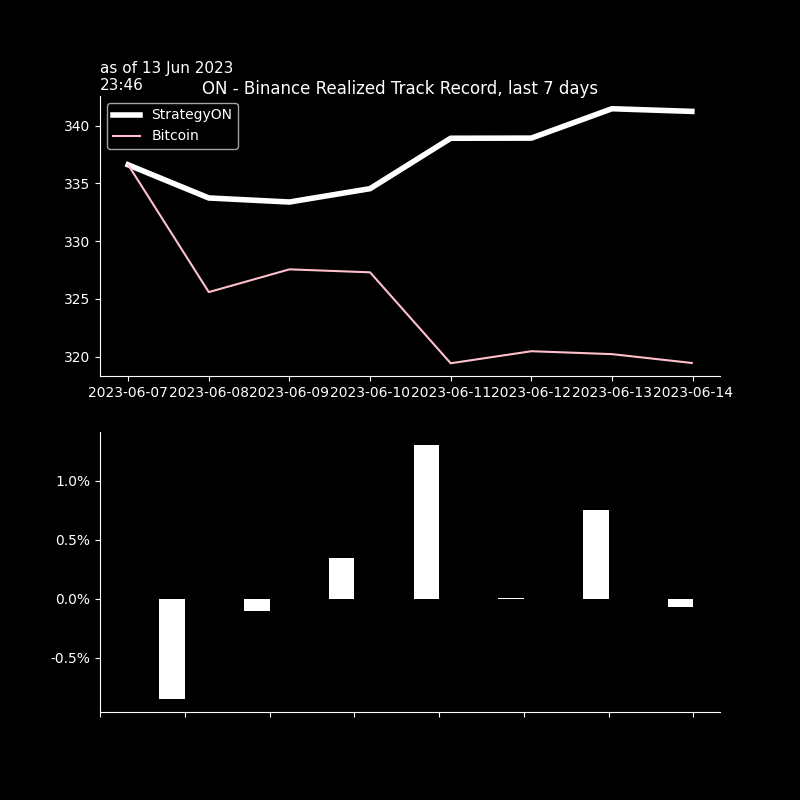
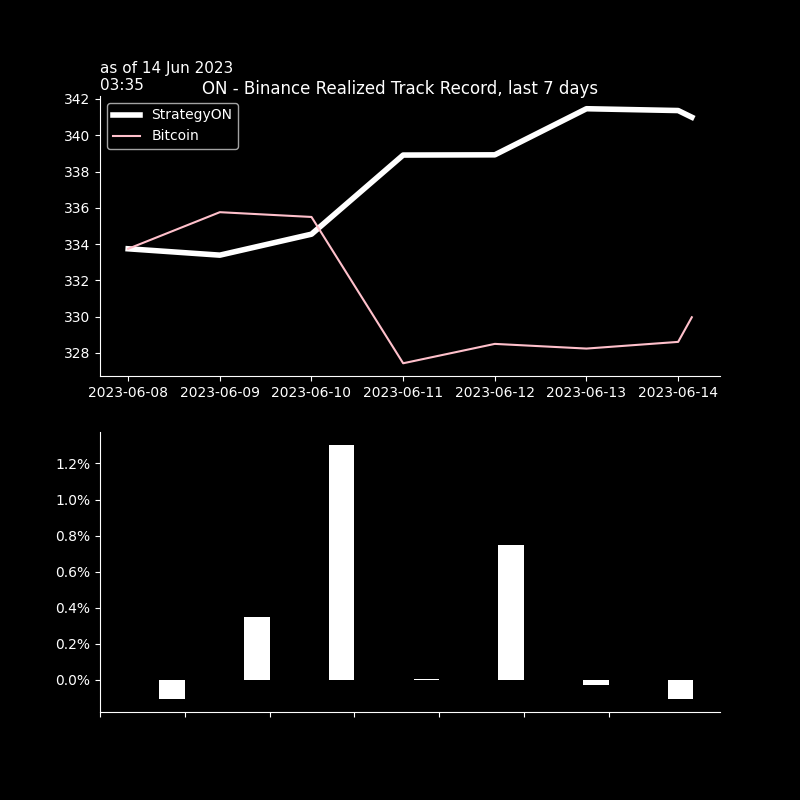
seb_commit

diff --git a/crypto/graphs/bt_trades_book.htmltrade_trades_book.html b/crypto/graphs/bt_trades_book.htmltrade_trades_book.html
@@ -37,53 +37,36 @@
   </thead>
   <tbody>
     <tr>
-      <th>BTCUSDT</th>
-      <td>25817.3000</td>
-      <td>2023-06-13 22:33:10</td>
-      <td>-0.009</td>
-      <td>$-232.4</td>
-      <td>$0.04</td>
-      <td>1.6</td>
-      <td>-0.5</td>
-      <td>25817.05000</td>
-      <td>2023-06-13 23:31</td>
-      <td>0.0</td>
-      <td>0.0</td>
-      <td>25820.</td>
+      <th>XRPUSDT</th>
+      <td>0.51655</td>
+      <td>2023-06-14 02:34:17.500</td>
+      <td>166.000</td>
+      <td>$85.7</td>
+      <td>$0.02</td>
+      <td>2.8</td>
+      <td>0.1</td>
+      <td>0.51585</td>
+      <td>2023-06-14 03:32</td>
+      <td>-0.1</td>
+      <td>-14.0</td>
+      <td>.5165</td>
       <td>-0.0</td>
       <td>-1.0</td>
     </tr>
     <tr>
-      <th>XRPUSDT</th>
-      <td>0.5177</td>
-      <td>2023-06-13 22:32:27</td>
-      <td>-414.800</td>
-      <td>$-214.7</td>
-      <td>$0.03</td>
+      <th>BTCUSDT</th>
+      <td>26030.50000</td>
+      <td>2023-06-14 02:34:44.000</td>
+      <td>0.004</td>
+      <td>$104.1</td>
+      <td>$0.02</td>
       <td>1.6</td>
-      <td>0.9</td>
-      <td>0.51745</td>
-      <td>2023-06-13 23:31</td>
-      <td>0.1</td>
-      <td>5.0</td>
-      <td>.518</td>
+      <td>-0.4</td>
+      <td>26013.15000</td>
+      <td>2023-06-14 03:32</td>
       <td>-0.1</td>
-      <td>-6.0</td>
-    </tr>
-    <tr>
-      <th>ETHUSDT</th>
-      <td>1734.1600</td>
-      <td>2023-06-13 22:33:10</td>
-      <td>-0.098</td>
-      <td>$-169.9</td>
-      <td>$0.03</td>
-      <td>1.6</td>
-      <td>-0.8</td>
-      <td>1734.16500</td>
-      <td>2023-06-13 23:31</td>
-      <td>-0.0</td>
-      <td>-0.0</td>
-      <td>1734.4</td>
+      <td>-7.0</td>
+      <td>26027.5</td>
       <td>-0.0</td>
       <td>-1.0</td>
     </tr>

diff --git a/crypto/graphs/bt_trades_recap.htmltrade_trades_recap.html b/crypto/graphs/bt_trades_recap.htmltrade_trades_recap.html
@@ -9,33 +9,33 @@
   <tbody>
     <tr>
       <th>as of</th>
-      <td>13Jun 22:32&gt;&gt;22:33</td>
-      <td>#trades: 3</td>
+      <td>14Jun 02:33&gt;&gt;02:35</td>
+      <td>#trades: 2</td>
     </tr>
     <tr>
       <th>trade net</th>
-      <td>-617.0</td>
-      <td>-180.7%</td>
+      <td>+190.0</td>
+      <td>+55.7%</td>
     </tr>
     <tr>
       <th>trade gross</th>
-      <td>+617.0</td>
-      <td>+180.7%</td>
+      <td>+190.0</td>
+      <td>+55.7%</td>
     </tr>
     <tr>
       <th>BUY</th>
+      <td>+190.0</td>
+      <td>+55.7%</td>
+    </tr>
+    <tr>
+      <th>SELL</th>
       <td>+0.0</td>
       <td>+0.0%</td>
     </tr>
     <tr>
-      <th>SELL</th>
-      <td>-617.0</td>
-      <td>-180.7%</td>
-    </tr>
-    <tr>
       <th>fees</th>
-      <td>$ 0.099</td>
-      <td>1.6bp</td>
+      <td>$ 0.041</td>
+      <td>2.14bp</td>
     </tr>
   </tbody>
 </table>

diff --git a/crypto/graphs/bt_trades_pnlD_recap.htmltrade_trades_pnlD_recap.html b/crypto/graphs/bt_trades_pnlD_recap.htmltrade_trades_pnlD_recap.html
@@ -1,7 +1,7 @@
 <table border="1" class="dataframe">
   <thead>
     <tr style="text-align: right;">
-      <th>13 Jun 23:33</th>
+      <th>14 Jun 03:35</th>
       <th>realizedPnl</th>
       <th>PnLvsArrival</th>
       <th>PnLvsLast</th>
@@ -11,20 +11,20 @@
     <tr>
       <th>in$</th>
       <td>-0.3</td>
-      <td>0.1</td>
       <td>-0.2</td>
+      <td>-0.0</td>
     </tr>
     <tr>
-      <th>in bp 617 traded</th>
-      <td>-6 bp</td>
-      <td>2 bp</td>
-      <td>-3 bp</td>
+      <th>in bp 189 traded</th>
+      <td>-16 bp</td>
+      <td>-10 bp</td>
+      <td>-1 bp</td>
     </tr>
     <tr>
       <th>in bp 341 AUMs</th>
-      <td>-10 bp</td>
-      <td>3 bp</td>
-      <td>-5 bp</td>
+      <td>-9 bp</td>
+      <td>-6 bp</td>
+      <td>-1 bp</td>
     </tr>
   </tbody>
 </table>
